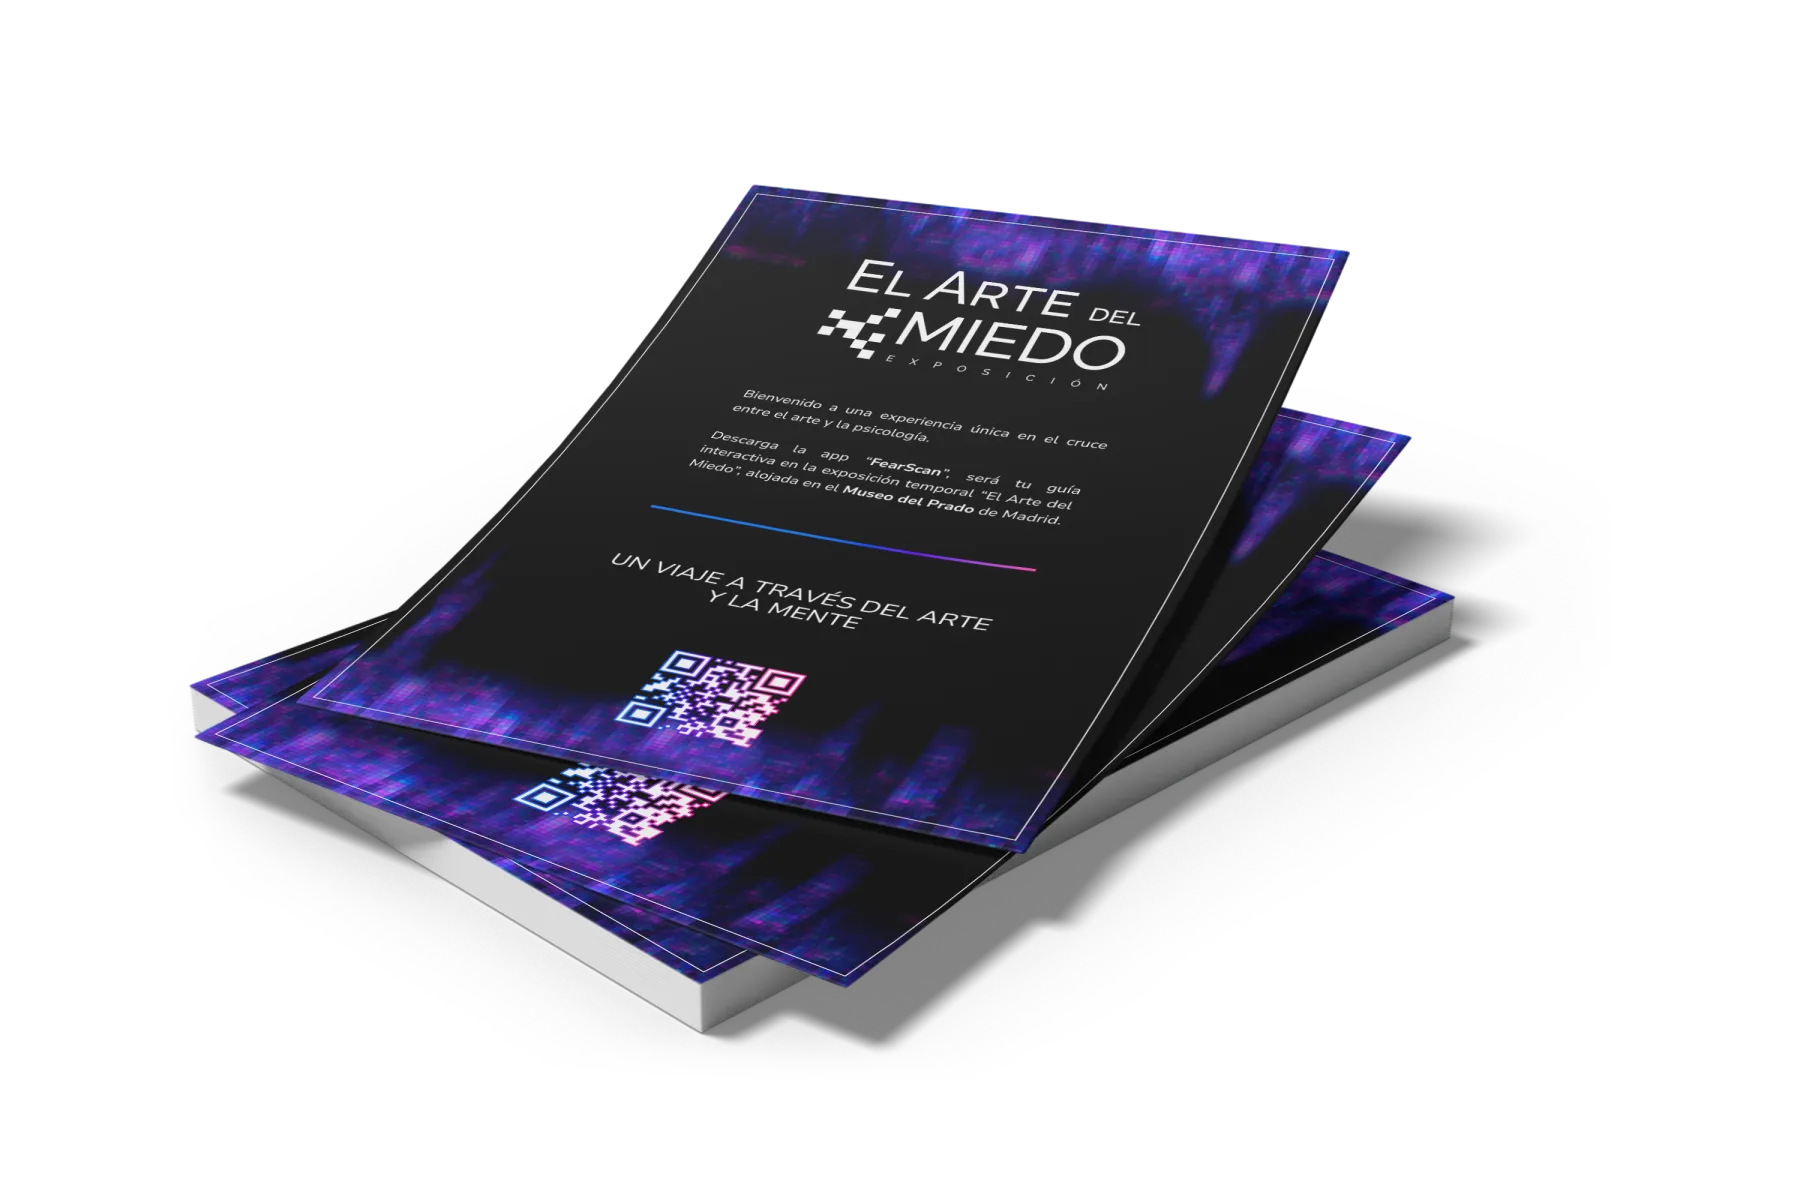
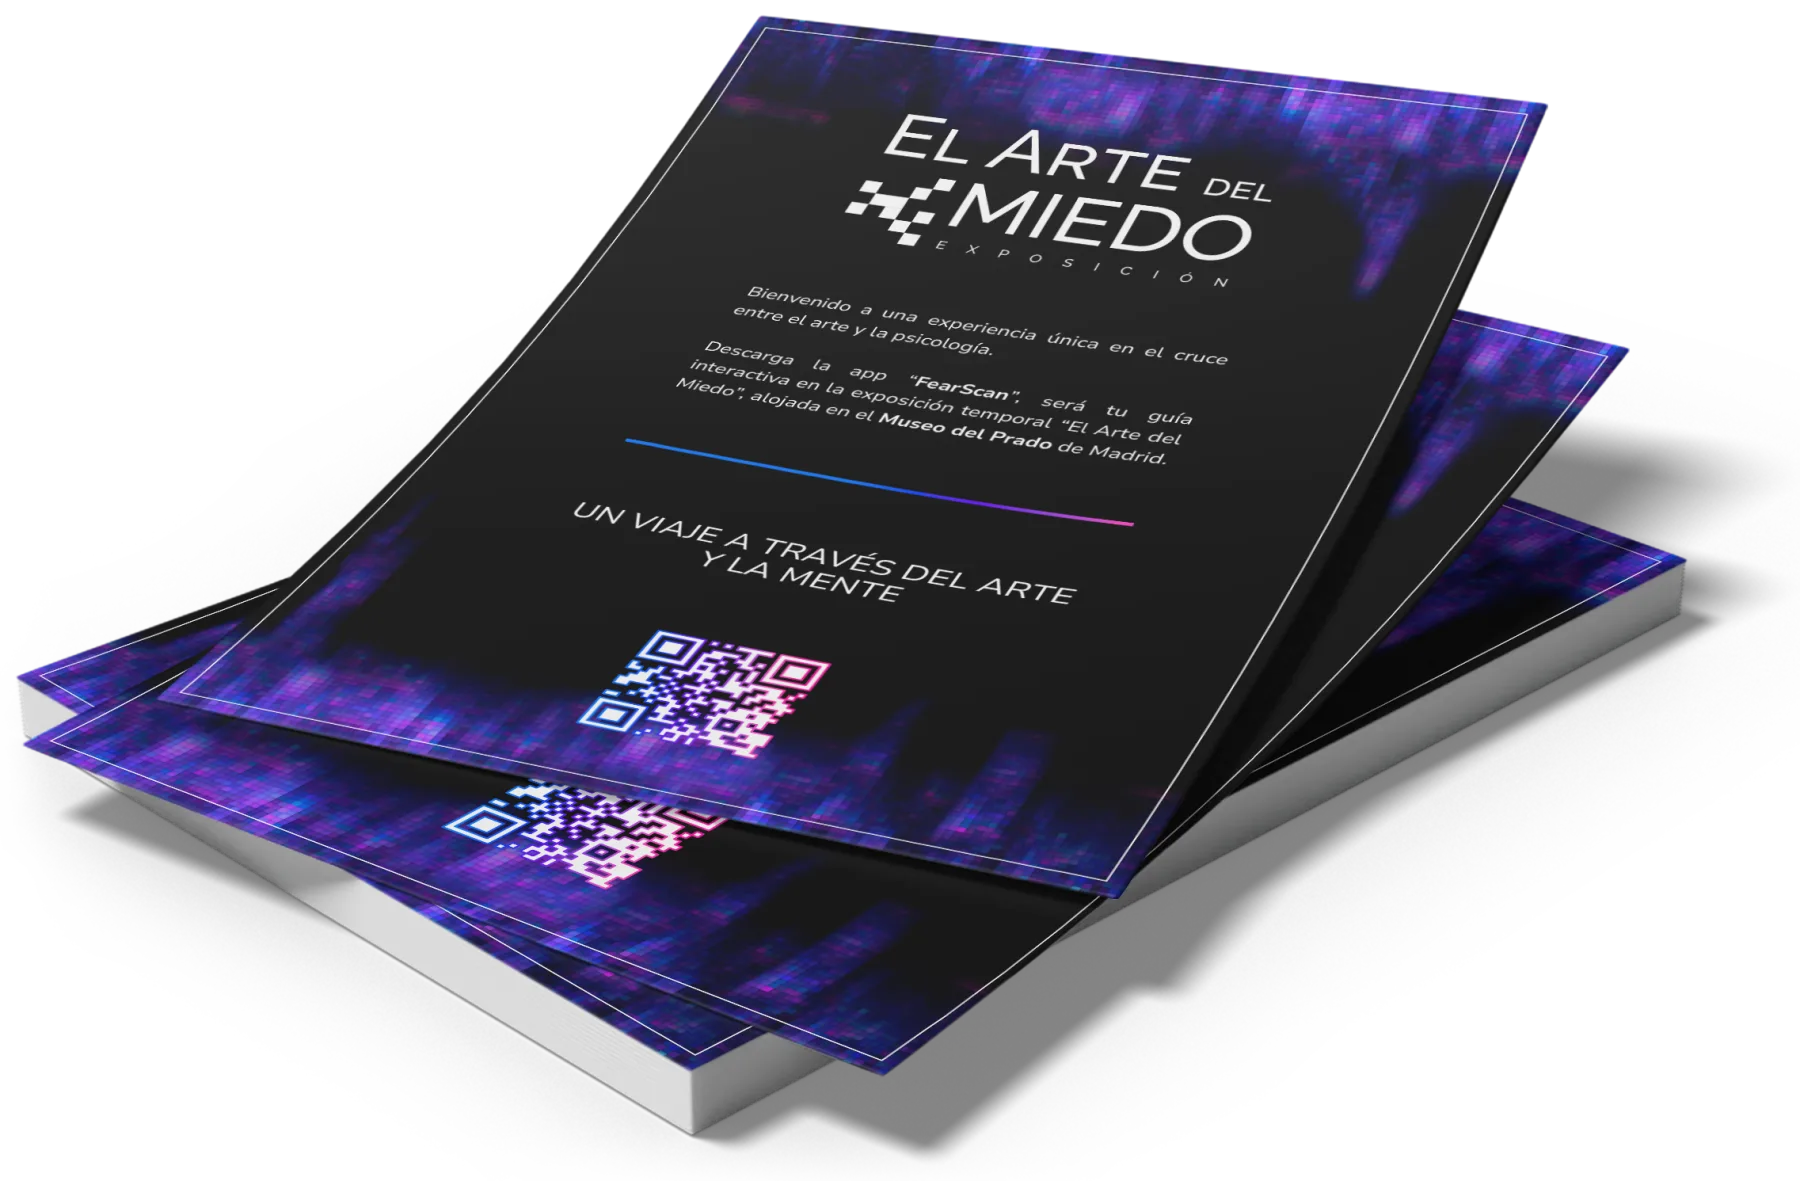
El Arte del Miedo: los flyers, un tercio mas grandes

diff --git a/src/components/proyectos/arte-del-miedo/Carteles.css b/src/components/proyectos/arte-del-miedo/Carteles.css
@@ -95,10 +95,16 @@
 /* El mockup del flyer va SIN fondo: el archivo es transparente —los flyers
    están recortados—, así que el papel de la página pasa por detrás y la pila se
    ve flotando en vez de metida en una caja. Por eso tampoco lleva redondeo: no
-   hay caja que redondear. */
+   hay caja que redondear.
+   La proporción es 2273/1491 y no 3/2: el archivo venía con 315 px de margen
+   transparente por la izquierda, 452 por la derecha y 308 por arriba —medido—,
+   así que la caja era un 3:2 con los flyers pequeños en medio. Recortado el
+   aire sobrante, la pila ocupa la caja entera y se ve un 32 % mayor sin quitarle
+   sitio al vídeo de al lado. El reparto se ajusta al mismo número para que los
+   dos sigan saliendo con el mismo alto. */
 .am-flyers-mockup {
-  flex: 1.5 1 0;
-  aspect-ratio: 3 / 2;
+  flex: 1.5245 1 0;
+  aspect-ratio: 2273 / 1491;
   margin: 0;
   min-width: 0;
   line-height: 0;
